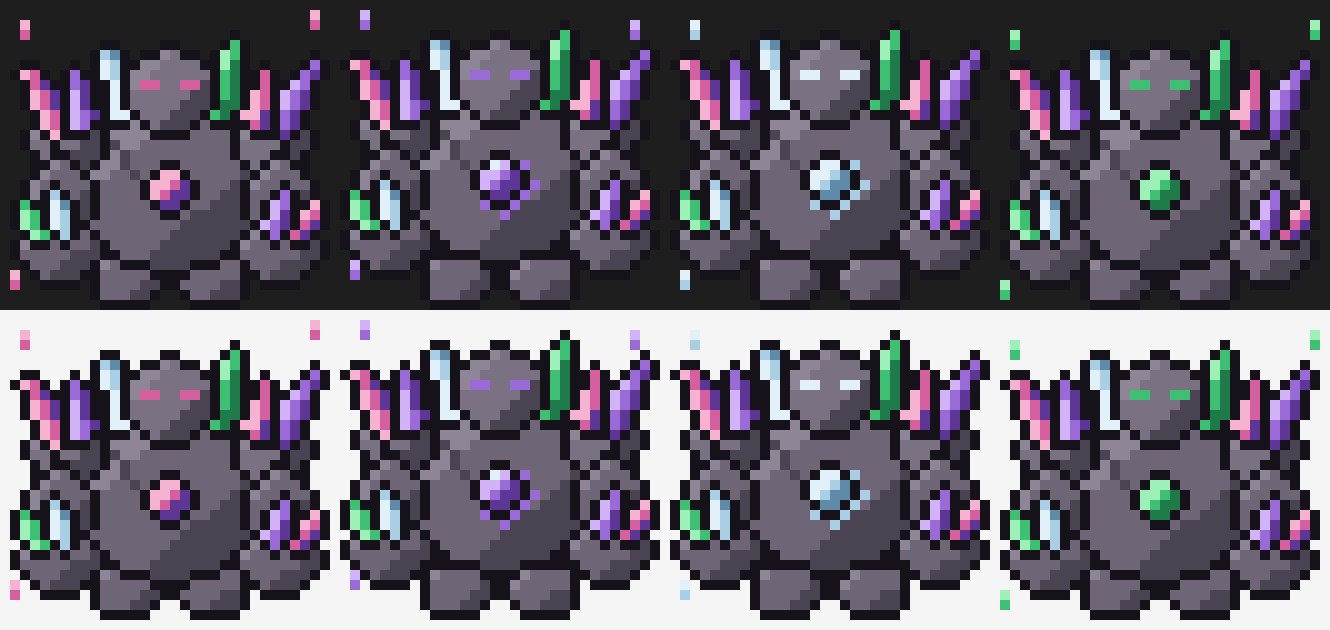
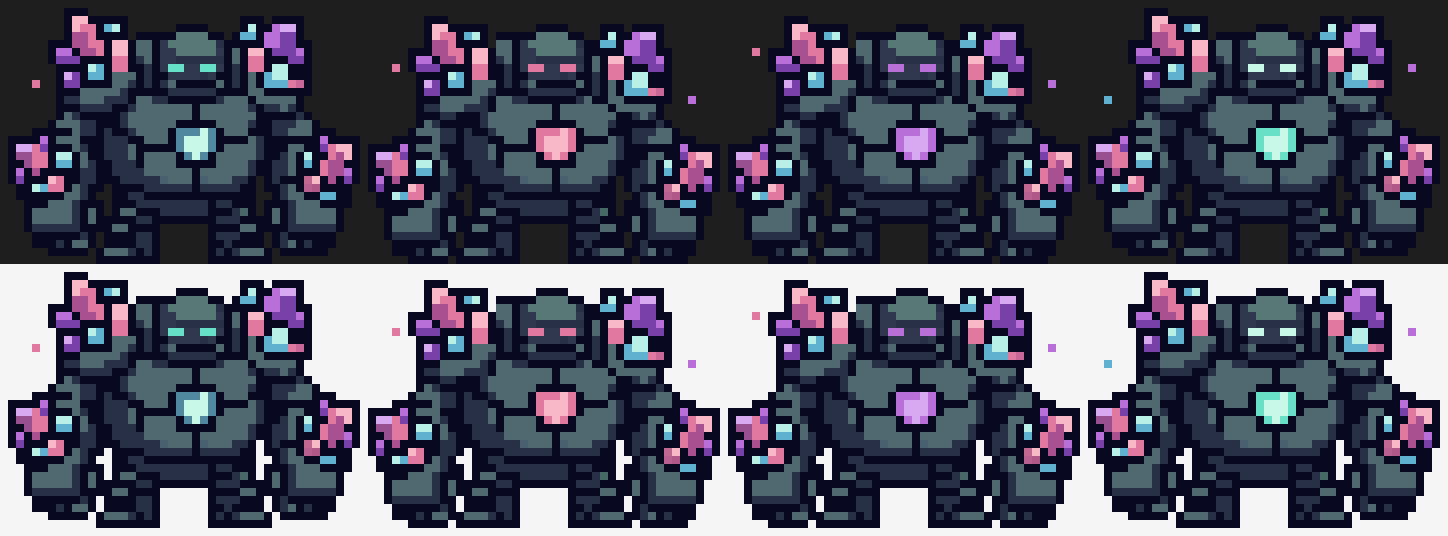
P5-26: redraw Geolem from @danielpg95's reference

diff --git a/plugin/content/CREDITS.md b/plugin/content/CREDITS.md
@@ -32,7 +32,7 @@ noted (decision 0011). Add a row whenever you add or change an asset.
 | `modsters/geodon/sprite.png` | @danielpg95 (drawn with Claude Code) | CC BY 4.0 | Geodon, redrawn in P5-26 from @danielpg95's reference |
 | `modsters/gemsnake/sprite.png` | @danielpg95 (drawn with Claude Code) | CC BY 4.0 | Gemsnake, redrawn in P5-26 from @danielpg95's reference |
 | `modsters/amethowl/sprite.png` | @danielpg95 (drawn with Claude Code) | CC BY 4.0 | Amethowl, redrawn in P5-26: the original body with crystal wings from @danielpg95's reference |
-| `modsters/geolem/sprite.png` | @danielpg95 (drawn with Claude Code) | CC BY 4.0 | Crystal Grotto |
+| `modsters/geolem/sprite.png` | @danielpg95 (drawn with Claude Code) | CC BY 4.0 | Geolem, redrawn in P5-26 from @danielpg95's reference |
 | `modsters/pinekin/sprite.png` | @danielpg95 (drawn with Claude Code) | CC BY 4.0 | P5-19 |
 | `modsters/hollowmask/sprite.png` | @danielpg95 (drawn with Claude Code) | CC BY 4.0 | P5-19 |
 | `modsters/musketail/sprite.png` | @danielpg95 (drawn with Claude Code) | CC BY 4.0 | P5-19 |
